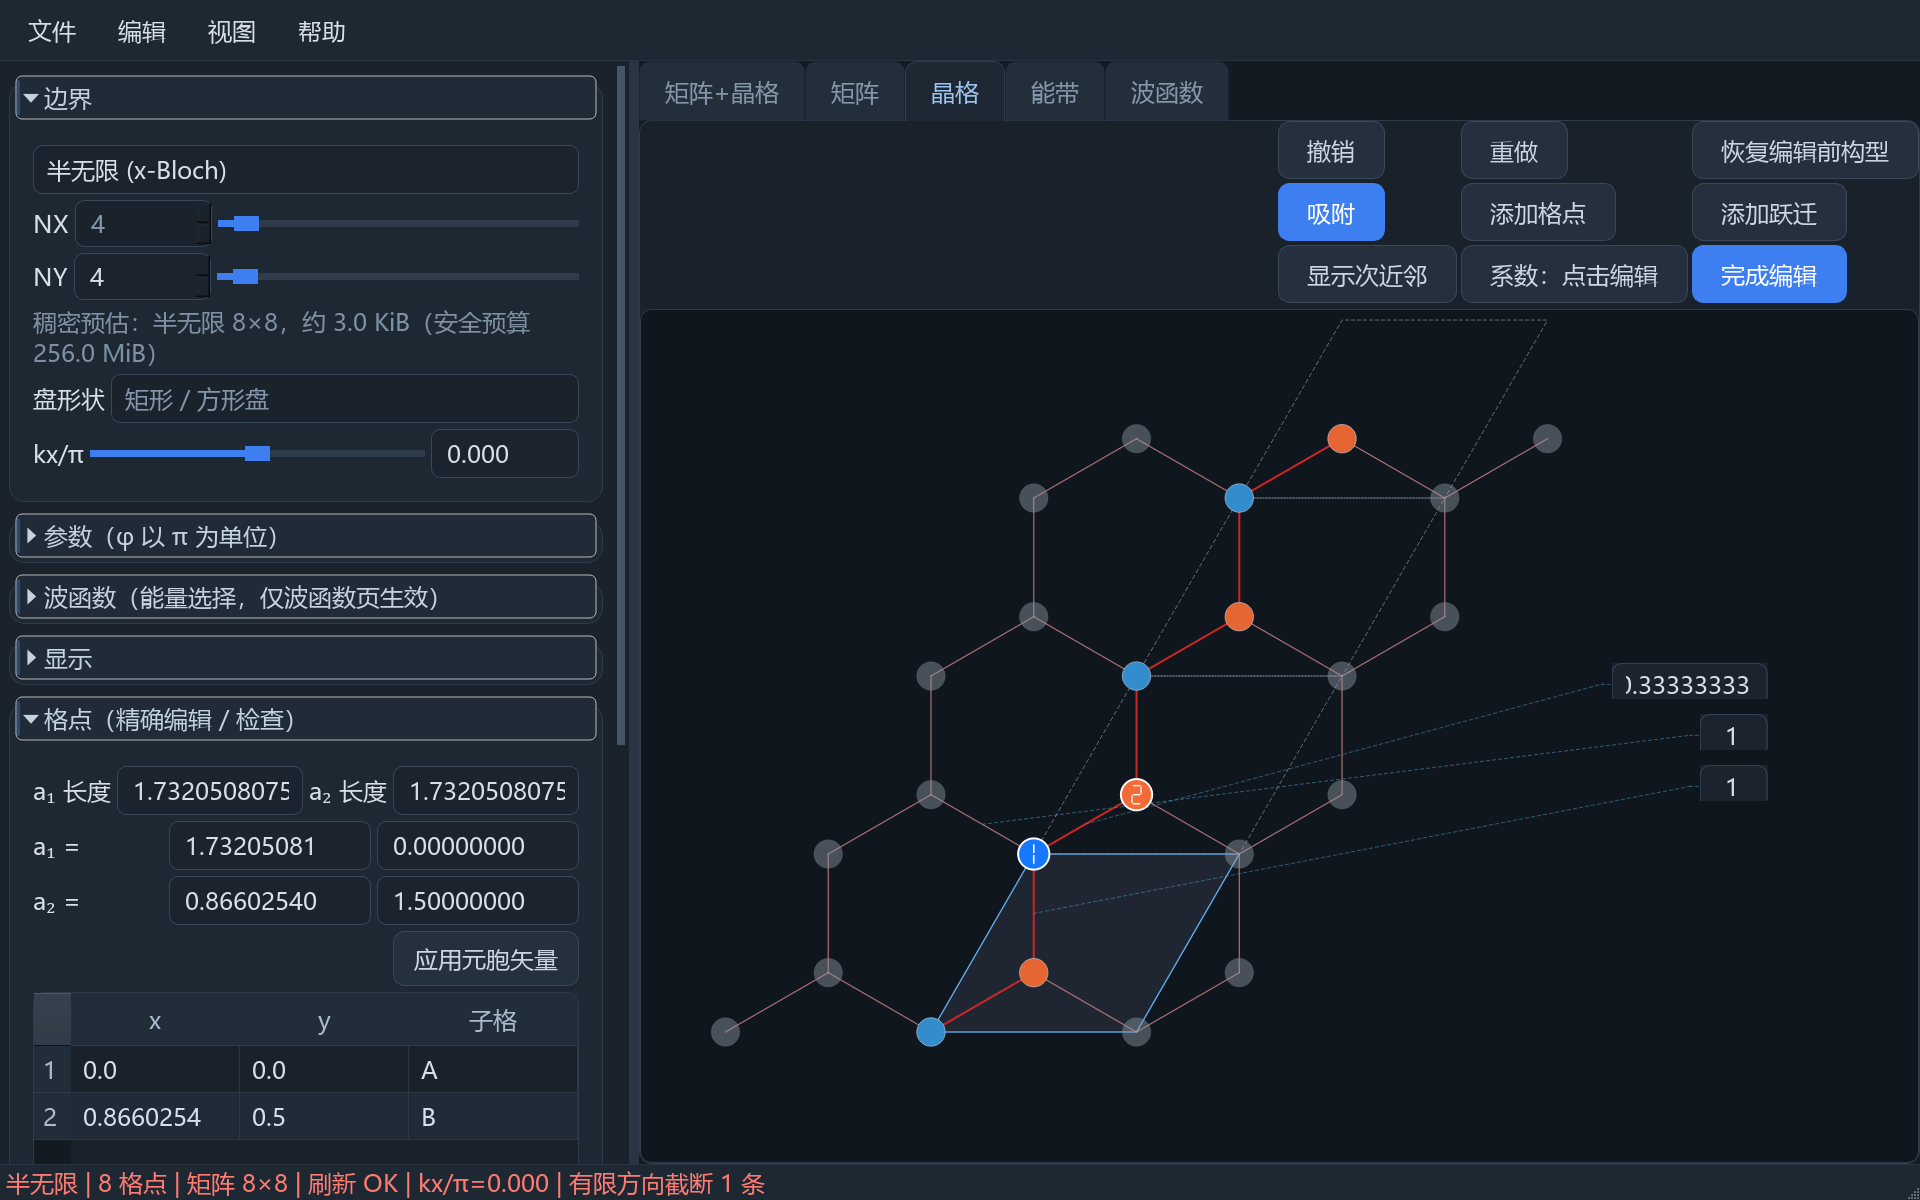
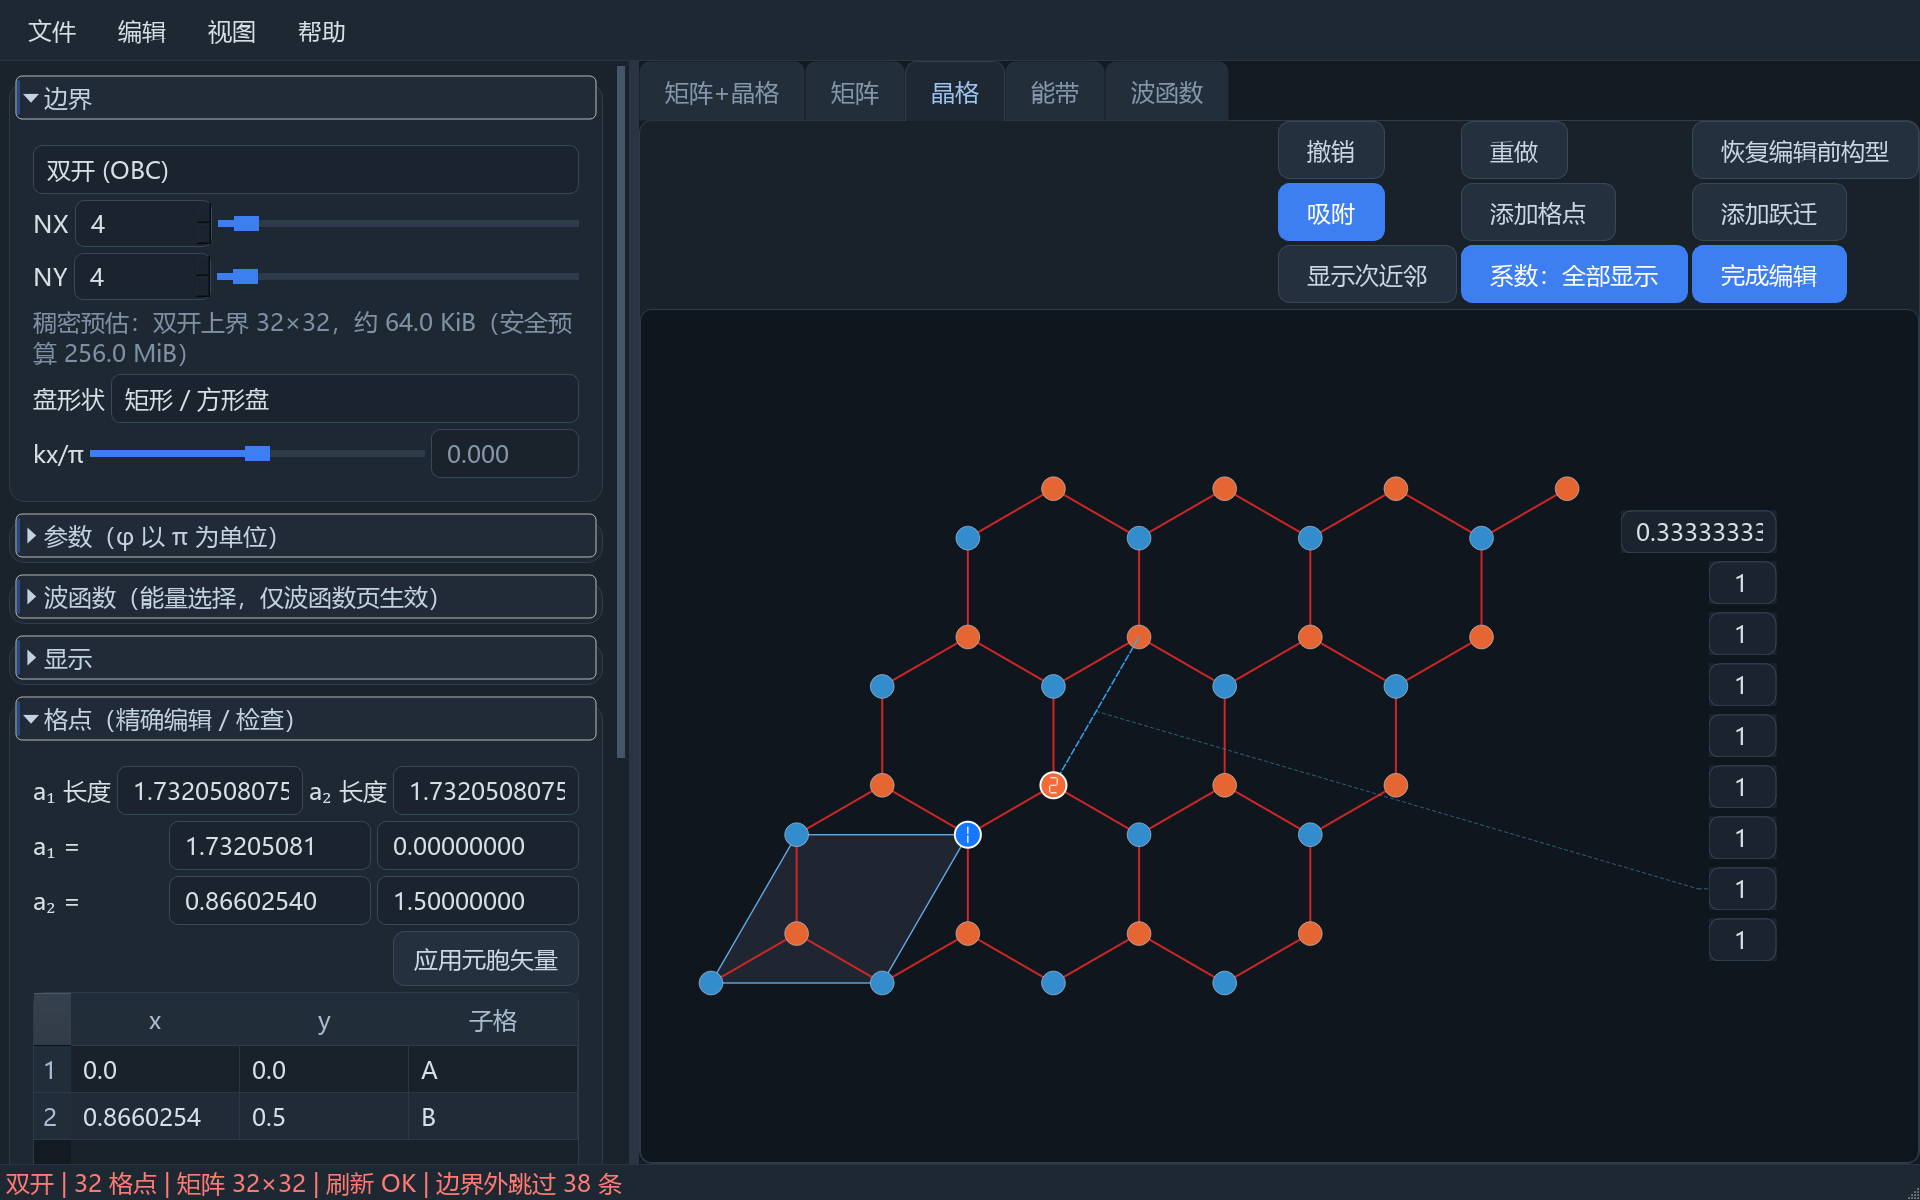
修复高缩放系数框文本裁切并更新验收证据

diff --git a/hamivisualizer/tests/test_ui_hardening.py b/hamivisualizer/tests/test_ui_hardening.py
@@ -1675,6 +1675,31 @@ def test_strength_proxy_tracks_editor_after_production_font_initialization():
         app.setFont(original_font)
 
 
+def test_rebuilt_fraction_editor_keeps_leading_zero_visible_at_large_scale():
+    """A committed fraction must not reopen with its first glyph scrolled away."""
+    _app, win, ctrl = _window()
+    ctrl.apply_document(template_document("蜂窝", connectivity="最近邻"))
+    win.resize(1440, 920)
+    win.show()
+    QApplication.processEvents()
+    win.lattice_mode_btn.setChecked(True)
+    win.lattice_scene.set_show_all_hop_editors(True)
+    ctrl.fit_all(force=True)
+    QApplication.processEvents()
+    editor = win.lattice_scene._edit_proxies[0].widget()
+    editor.setText("1/3")
+    win.lattice_scene._commit_hop_strength(0, editor)
+    QApplication.processEvents()
+    win._set_ui_scale(1.8, persist=False)
+    win._set_theme_mode("dark")
+    ctrl.fit_all(force=True)
+    QApplication.processEvents()
+    rebuilt = win.lattice_scene._edit_proxies[0].widget()
+    assert rebuilt.text().startswith("0.")
+    assert rebuilt.cursorPosition() == 0
+    assert rebuilt.fontMetrics().horizontalAdvance(rebuilt.text()) <= rebuilt.width() - 20
+
+
 def test_double_click_on_existing_lattice_content_never_adds_or_deletes():
     QApplication.instance() or QApplication([])
     scene = LatticeView()

diff --git a/hamivisualizer/view/lattice_view.py b/hamivisualizer/view/lattice_view.py
@@ -1483,6 +1483,15 @@ class LatticeView(QGraphicsScene):
             height = max(26, min(36, int(styled_height)))
             editor.setFixedSize(width, height)
             editor.setAlignment(Qt.AlignCenter)
+            # A newly created QLineEdit puts its cursor at the end of the
+            # constructor text.  When the field is center-aligned, Qt can
+            # retain that end-of-text horizontal scroll offset even while
+            # the field is unfocused.  After a fraction commit this made a
+            # perfectly wide ``0.33333333`` field paint as ``).3333333`` at
+            # high UI scale.  Start rebuilt editors at the beginning so the
+            # complete value is visible; user typing still controls the
+            # cursor once the field receives focus.
+            editor.setCursorPosition(0)
             # Do not install QDoubleValidator here: it rejects the perfectly
             # valid ``1/3`` form while the side-panel parameter editor accepts
             # it.  Validation is performed on commit by the shared safe

diff --git a/docs/持续打磨简报.md b/docs/持续打磨简报.md
@@ -3,7 +3,14 @@
 - 工作开始：2026-08-28 02:18:13 +08:00
 - 工作结束：进行中
 - 累计持续时间：进行中
-- 最近一次完整全量测试：`311 passed in 117.72s`（2026-08-30 11:33 +08:00，无失败、无新增警告）。最新一轮修复同一窗口切换全部 10 个内置预设后参数表残留旧滑块的问题：从多参数模型切换到单参数模型时，旧嵌入控件会先移除、隐藏并销毁，避免 180% 下蓝色滑块叠加和误操作；Kagome 多标签 100% 浅色、180% 深色完成实拍。此前合并重复的 `showEvent`，修复工作区比较视图恢复；画布跃迁系数提交立即进入撤回历史；并修复关闭后台模型标签跳转、状态栏长路径溢出、标签重排活动会话错位。随后对 10 个默认模型、两类边界和四种有限盘形状执行 50 组合的真实数值建阵审计，全部满足非空、维度有效和厄米性不变量。此前清理未被文档引用的历史重复截图并复拍 Kagome 正三角纳米盘与 Haldane 编辑态。当前项目保留 573 张 `.codex-artifacts` 截图证据，另有 13 张完整窗口截图作为 README 稳定资源；新增全部 11 个预设 × 4 种主题/缩放组合的 44 张统一验收图，并追加参数长数值的 2×2 可读性验收；PNG 引用与缺失计数以文末链接审计为准，主验收图均为 1920×1200，并明确区分 100%/180% 和浅色/深色。
+- 最近一次完整全量测试：`312 passed in 116.47s`（2026-08-30 11:55 +08:00，无失败、无新增警告）。最新一轮修复同一窗口切换全部 10 个内置预设后参数表残留旧滑块的问题：从多参数模型切换到单参数模型时，旧嵌入控件会先移除、隐藏并销毁，避免 180% 下蓝色滑块叠加和误操作；Kagome 多标签 100% 浅色、180% 深色完成实拍。此前合并重复的 `showEvent`，修复工作区比较视图恢复；画布跃迁系数提交立即进入撤回历史；并修复关闭后台模型标签跳转、状态栏长路径溢出、标签重排活动会话错位。随后对 10 个默认模型、两类边界和四种有限盘形状执行 50 组合的真实数值建阵审计，全部满足非空、维度有效和厄米性不变量。此前清理未被文档引用的历史重复截图并复拍 Kagome 正三角纳米盘与 Haldane 编辑态。当前项目保留 573 张 `.codex-artifacts` 截图证据，另有 13 张完整窗口截图作为 README 稳定资源；新增全部 11 个预设 × 4 种主题/缩放组合的 44 张统一验收图，并追加参数长数值的 2×2 可读性验收；PNG 引用与缺失计数以文末链接审计为准，主验收图均为 1920×1200，并明确区分 100%/180% 和浅色/深色。
+
+## 2026-08-30 11:45 +08:00 — 高缩放系数框首字符裁切修复
+
+- 发现蜂窝模型提交 `1/3` 后切换主题/180% 缩放会把右侧系数框的首字符 `0` 视觉裁掉；问题来自重建 `QLineEdit` 默认保留文本末尾水平滚动偏移，而非物理值或控件外框尺寸错误；
+- 新建编辑器居中对齐后统一将光标定位到文本开头，确保 `0.33333333` 完整可读；用户获得焦点后仍可正常编辑；
+- 实际执行分数提交→模型重建→深色 180% 的完整窗口复拍，更新 [跃迁编辑截图](../assets/screenshots/10-hop-editor-dark-180.png)，首字符和边框均可见；
+- 新增回归 `test_rebuilt_fraction_editor_keeps_leading_zero_visible_at_large_scale`，定向 `2 passed`；详细记录：[高缩放系数框首字符裁切修复](change-logs/2026-08-30_1145_高缩放系数框首字符裁切修复.md)。
 
 ## 2026-08-30 11:30 +08:00 — 正式 README、截图资产与生产字体编辑器验收
 

diff --git a/docs/change-logs/2026-08-30_1145_高缩放系数框首字符裁切修复.md b/docs/change-logs/2026-08-30_1145_高缩放系数框首字符裁切修复.md
@@ -1,0 +1,38 @@
+# 高缩放系数框首字符裁切修复
+
+- 日期：2026-08-30 11:45 +08:00
+- 问题范围：晶格编辑态右侧跃迁系数输入框
+- 影响范围：提交分数后重建、切换主题或切换到 180% 界面缩放的编辑器显示
+
+## 问题证据
+
+在蜂窝模型中把画布系数输入为 `1/3` 后，数值已经正确归一化为 `0.33333333`，但 Qt
+重建 `QLineEdit` 时光标默认停在文本末尾。中心对齐的行编辑器会保留末尾水平滚动偏移，
+导致开头的 `0` 被视觉裁掉，截图中看起来像 `).3333333`。几何边界测试只能证明框没有
+超出视口，无法发现文本滚动位置错误。
+
+## 实现修改
+
+- 在 `_draw_edit_hop_controls()` 创建新跃迁系数框并设为居中对齐后，显式调用
+  `setCursorPosition(0)`；所有因参数提交、主题切换和界面缩放触发的重建都会从完整文本开头显示；
+- 不改变用户获得焦点后的输入行为，输入时光标仍由用户操作控制；不改变解析值、参数归一化或
+  哈密顿量计算；
+- 将最新 180% 深色跃迁编辑截图替换为修复后版本：
+  [10-hop-editor-dark-180.png](../assets/screenshots/10-hop-editor-dark-180.png)。
+
+## 验证
+
+- 新增回归测试 `test_rebuilt_fraction_editor_keeps_leading_zero_visible_at_large_scale`：实际
+  提交 `1/3`，触发模型重建，再切换深色 180%，检查文本以 `0.` 开头、光标位置为 0、文本宽度
+  不超过可用控件宽度；
+- 定向测试：`2 passed, 158 deselected in 2.64s`；
+- 重新运行 `tools/render_ui_regression.py --hop-editor-demo --ui-scale 1.8`，完整窗口截图为
+  `1920×1200`，首字符和输入框边框均可见；
+- 合并后全量测试：`312 passed in 116.47s`；全预设编辑器审计 `88/88` 通过；仅用于复核的临时
+  截图已清理，正式证据目录保持可控规模。
+
+## 兼容性与风险
+
+- 无破坏性 API 或模型格式变更；
+- 仅调整新建编辑器的初始水平滚动位置，避免合法数值的视觉误导；
+- 本次变更与已有代理几何同步修复互补：前者保证文本完整，后者保证控件边框完整。
